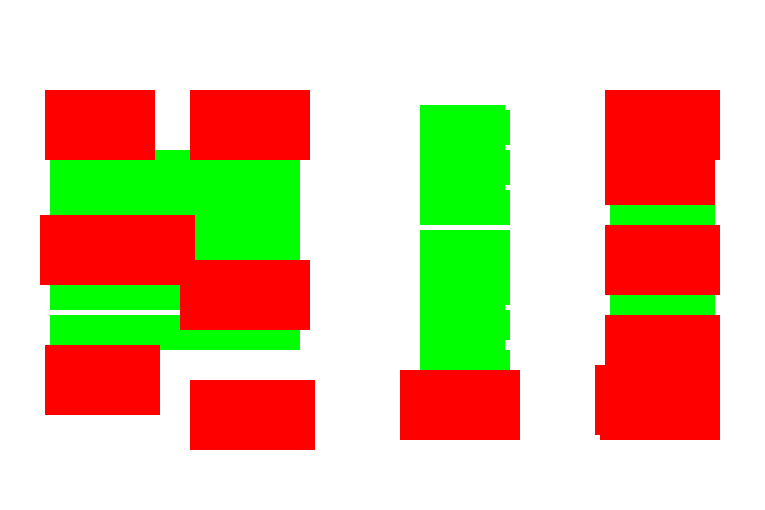
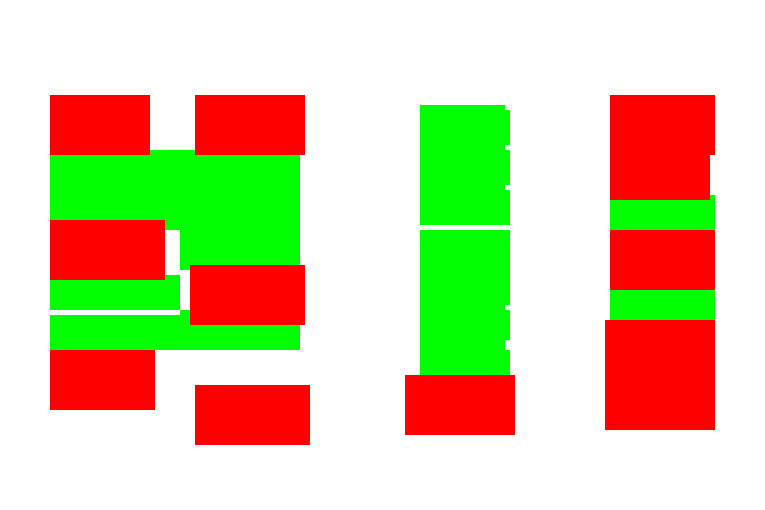
fix: grid colors

diff --git a/main.py b/main.py
@@ -9,7 +9,7 @@ import os
 import threading
 from math import sqrt
 from scipy.interpolate import UnivariateSpline
-
+from ultralytics import YOLO
 import scipy.ndimage as ndimage
 from mpc_controller import Environment,MPC_Controller,Linear_MPC_Controller,Car_Dynamics
 
@@ -289,11 +289,10 @@ class ParkingGridConverter:
         def load_model():
             try:
                 self.root.after(0, lambda: self.update_status("Loading YOLO model (downloading if first time)..."))
-                from ultralytics import YOLO
-                model_path = 'yolov8x.pt'
+                model_path = 'yolo11l.pt'
                 if not os.path.exists(model_path):
                     # Download the model if not present (will be automatic by yolo, but explicit for clarity)
-                    self.yolo_model = YOLO('yolov8x-seg.pt')  # this will download if not already present
+                    self.yolo_model = YOLO('yolov8n.pt')  # this will download if not already present
                 else:
                     self.yolo_model = YOLO(model_path)
                 self.root.after(0, lambda: self.update_status("YOLO model loaded! Ready to detect obstacles."))
@@ -812,10 +811,10 @@ class ParkingGridConverter:
             self.parking_spots = parking_spot_rects
             
             # Detect occupancy using multi-feature approach from test4.py
-            if parking_spot_rects:
-                self.update_status("Detecting occupancy of parking spots...")
-                self.detect_occupancy(image, gray, parking_spot_rects, occupancy_threshold=0.15, 
-                                    output_folder=output_folder, save_steps=True)
+            # if parking_spot_rects:
+            #     self.update_status("Detecting occupancy of parking spots...")
+            #     self.detect_occupancy(image, gray, parking_spot_rects, occupancy_threshold=0.15, 
+            #                         output_folder=output_folder, save_steps=True)
             
             # Separate empty and occupied spots
             empty_spots = [s for s in parking_spot_rects if not s.get('is_occupied', False)]
@@ -907,6 +906,89 @@ class ParkingGridConverter:
             import traceback
             traceback.print_exc()
     
+    def check_overlap(self, bbox1, bbox2, threshold=0.3):
+        """Check if two bounding boxes overlap by more than threshold
+        bbox1, bbox2: [x, y, w, h] or [x1, y1, x2, y2]
+        Returns True if overlap area / min_area > threshold
+        """
+        # Convert to x1, y1, x2, y2 format
+        if len(bbox1) == 4 and 'x' not in str(bbox1):  # assume [x1, y1, x2, y2]
+            x1_1, y1_1, x2_1, y2_1 = bbox1
+        else:  # assume it's a dict with x, y, width, height
+            if isinstance(bbox1, dict):
+                x1_1 = bbox1['x']
+                y1_1 = bbox1['y']
+                x2_1 = x1_1 + bbox1['width']
+                y2_1 = y1_1 + bbox1['height']
+            else:
+                x1_1, y1_1, w1, h1 = bbox1
+                x2_1 = x1_1 + w1
+                y2_1 = y1_1 + h1
+        
+        if isinstance(bbox2, list):
+            if len(bbox2) == 4:
+                x1_2, y1_2, x2_2, y2_2 = bbox2
+        else:
+            x1_2 = bbox2['x']
+            y1_2 = bbox2['y']
+            x2_2 = x1_2 + bbox2['width']
+            y2_2 = y1_2 + bbox2['height']
+        
+        # Calculate intersection
+        x1_i = max(x1_1, x1_2)
+        y1_i = max(y1_1, y1_2)
+        x2_i = min(x2_1, x2_2)
+        y2_i = min(y2_1, y2_2)
+        
+        if x2_i <= x1_i or y2_i <= y1_i:
+            return False  # No overlap
+        
+        # Calculate areas
+        intersection_area = (x2_i - x1_i) * (y2_i - y1_i)
+        area1 = (x2_1 - x1_1) * (y2_1 - y1_1)
+        area2 = (x2_2 - x1_2) * (y2_2 - y1_2)
+        min_area = min(area1, area2)
+        
+        # Check if overlap is significant
+        if min_area > 0:
+            overlap_ratio = intersection_area / min_area
+            return overlap_ratio > threshold
+        return False
+    
+    def remove_overlapping_empty_spots(self):
+        """Remove empty parking spots that overlap with YOLO detected obstacles"""
+        if not self.parking_spots or not self.detected_objects:
+            return
+        
+        initial_count = len([s for s in self.parking_spots if not s.get('is_occupied', False)])
+        filtered_spots = []
+        removed_count = 0
+        
+        for spot in self.parking_spots:
+            # Only check empty spots
+            if spot.get('is_occupied', False):
+                filtered_spots.append(spot)
+                continue
+            
+            spot_bbox = spot['bounding_rect']
+            overlaps_with_obstacle = False
+            
+            # Check overlap with each YOLO obstacle
+            for obj in self.detected_objects:
+                if obj['is_obstacle']:
+                    if self.check_overlap(spot_bbox, obj['bbox'], threshold=0.3):
+                        overlaps_with_obstacle = True
+                        removed_count += 1
+                        break
+            
+            # Keep spot if it doesn't overlap with any obstacle
+            if not overlaps_with_obstacle:
+                filtered_spots.append(spot)
+        
+        self.parking_spots = filtered_spots
+        print(f"Removed {removed_count} empty parking spots that overlapped with YOLO obstacles")
+        print(f"Empty spots: {initial_count} -> {initial_count - removed_count}")
+    
     def detect_obstacles_yolo(self):
         """Step 3: Detect obstacles (cars, people, etc.) using YOLO"""
         if self.original_image is None:
@@ -957,8 +1039,46 @@ class ParkingGridConverter:
                         'is_obstacle': class_id in obstacle_classes
                     })
             
-            # Draw both parking spots (green) and obstacles (red) on the image
+            # Remove empty parking spots that overlap with YOLO obstacles
+            if self.parking_spots:
+                self.remove_overlapping_empty_spots()
+            
+            # Draw YOLO obstacles first for intermediate image
             image = cv2.cvtColor(self.original_image, cv2.COLOR_BGR2RGB)
+            yolo_detection_image = image.copy()
+            
+            obstacle_count = 0
+            for obj in self.detected_objects:
+                if obj['is_obstacle']:
+                    obstacle_count += 1
+                    x1, y1, x2, y2 = obj['bbox']
+                    
+                    # Red fill with transparency effect
+                    overlay = yolo_detection_image.copy()
+                    cv2.rectangle(overlay, (x1, y1), (x2, y2), (255, 0, 0), -1)
+                    cv2.addWeighted(overlay, 0.3, yolo_detection_image, 0.7, 0, yolo_detection_image)
+                    
+                    # Red border
+                    cv2.rectangle(yolo_detection_image, (x1, y1), (x2, y2), (255, 0, 0), 3)
+                    
+                    # Label
+                    label = f"{obj['class_name']} {obj['confidence']:.2f}"
+                    label_size, _ = cv2.getTextSize(label, cv2.FONT_HERSHEY_SIMPLEX, 0.5, 2)
+                    cv2.rectangle(yolo_detection_image, 
+                                (x1, y1 - label_size[1] - 10),
+                                (x1 + label_size[0], y1),
+                                (255, 0, 0), -1)
+                    cv2.putText(yolo_detection_image, label, (x1, y1 - 5),
+                              cv2.FONT_HERSHEY_SIMPLEX, 0.5, (255, 255, 255), 2)
+            
+            # Save YOLO detection image
+            if not os.path.exists("cv_process_images"):
+                os.makedirs("cv_process_images")
+            yolo_save_path = os.path.join("cv_process_images", "29_yolo_detection.png")
+            cv2.imwrite(yolo_save_path, cv2.cvtColor(yolo_detection_image, cv2.COLOR_RGB2BGR))
+            print(f"Saved YOLO detection image to {yolo_save_path}")
+            
+            # Now create the final combined image with filtered parking spots and obstacles
             result_image = image.copy()
             
             # First draw parking spots (GREEN for empty, RED for occupied) if they exist
@@ -994,10 +1114,8 @@ class ParkingGridConverter:
                                cv2.FONT_HERSHEY_SIMPLEX, 0.35, color, 1, cv2.LINE_AA)
             
             # Then draw YOLO obstacles (RED) on top
-            obstacle_count = 0
             for obj in self.detected_objects:
                 if obj['is_obstacle']:
-                    obstacle_count += 1
                     x1, y1, x2, y2 = obj['bbox']
                     
                     # Red fill with transparency effect
@@ -1018,7 +1136,7 @@ class ParkingGridConverter:
                     cv2.putText(result_image, label, (x1, y1 - 5),
                               cv2.FONT_HERSHEY_SIMPLEX, 0.5, (255, 255, 255), 2)
             
-            # Add legend to image
+            # Add legend to final image
             legend_y = 30
             cv2.rectangle(result_image, (5, 5), (220, 100), (255, 255, 255), -1)
             cv2.rectangle(result_image, (5, 5), (220, 100), (0, 0, 0), 1)
@@ -1028,6 +1146,11 @@ class ParkingGridConverter:
             cv2.putText(result_image, "Occupied Spot", (30, 52), cv2.FONT_HERSHEY_SIMPLEX, 0.4, (0, 0, 0), 1)
             cv2.rectangle(result_image, (10, 65), (25, 80), (255, 0, 0), -1)
             cv2.putText(result_image, "Obstacle (YOLO)", (30, 77), cv2.FONT_HERSHEY_SIMPLEX, 0.4, (0, 0, 0), 1)
+            
+            # Save final combined image with filtered parking spots and obstacles
+            final_save_path = os.path.join("cv_process_images", "30_final_empty_spots_and_obstacles.png")
+            cv2.imwrite(final_save_path, cv2.cvtColor(result_image, cv2.COLOR_RGB2BGR))
+            print(f"Saved final image with empty spots and obstacles to {final_save_path}")
             
             self.processed_image = result_image
             self.display_image(self.processed_image, self.image_canvas)
@@ -1402,7 +1525,7 @@ class ParkingGridConverter:
                     x2, y2 = x1 + scale, y1 + scale
                     
                     if self.grid_matrix[row, col] == 1:
-                        color = (50, 50, 50)  # Dark gray for obstacles
+                        color = (0, 0, 255)  # Red for obstacles
                     elif self.grid_matrix[row, col] == 2:
                         color = (0, 255, 0)  # Green for parking spots
                     else:
@@ -1413,7 +1536,7 @@ class ParkingGridConverter:
             # Draw path
             if is_smoothed:
                 # Smoothed path - draw as continuous line
-                path_color = (0, 255, 0)  # Green for smoothed path (BGR)
+                path_color = (0, 255, 255)  # Yellow for smoothed path (BGR)
                 for i in range(len(path) - 1):
                     row1, col1 = path[i]
                     row2, col2 = path[i + 1]
